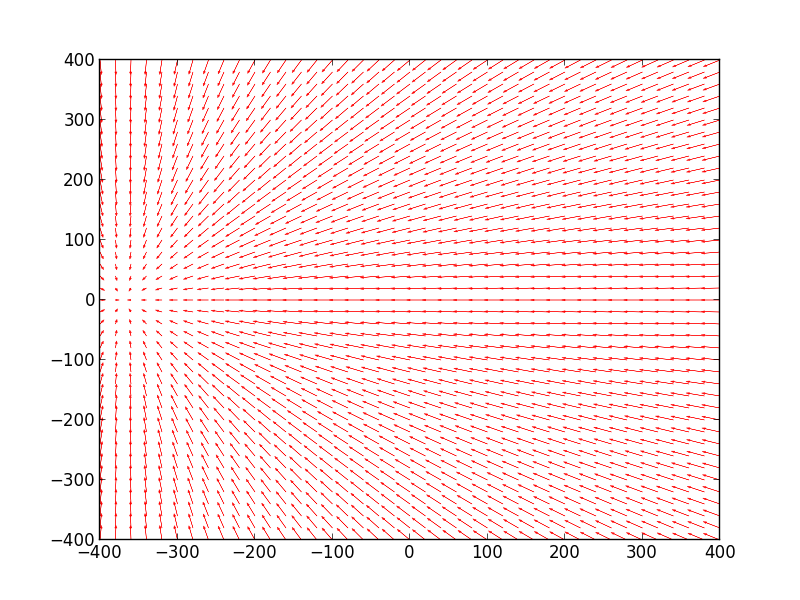
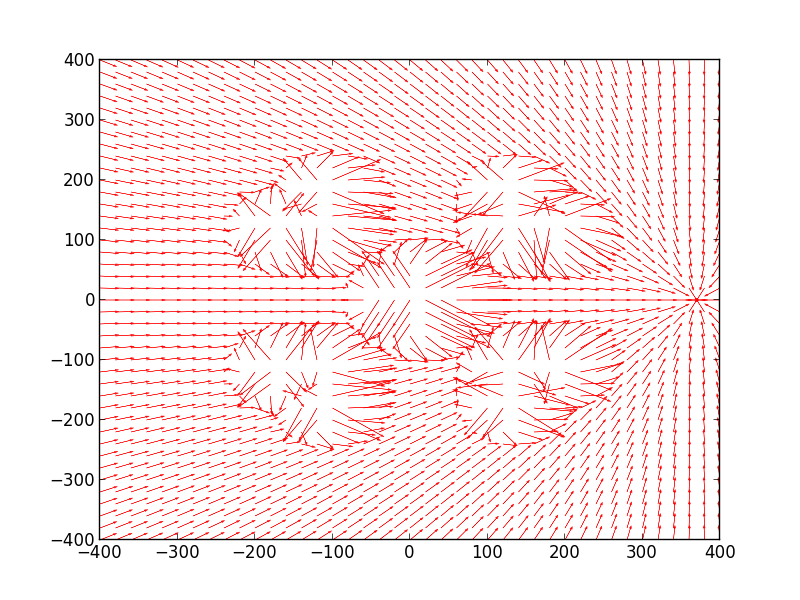
combined potential and attractive fields

Changed region(s): [[0.125, 0.09, 0.9062, 0.9]]

diff --git a/bzagents/agentPotFields.py b/bzagents/agentPotFields.py
@@ -23,6 +23,7 @@
 import sys
 import math
 import time
+import random
 
 import show_field
 
@@ -38,8 +39,11 @@ class Agent(object):
 		self.constants = self.bzrc.get_constants()
 		self.commands = []
 		self.shown_graph = False
+		self.no_flag_pot_field = []
+		self.have_flag_pot_field = []
 
 	def tick(self, time_diff):
+		print 'tick'
 		"""Some time has passed; decide what to do next."""
 		mytanks, othertanks, flags, shots = self.bzrc.get_lots_o_stuff()
 		self.mytanks = mytanks
@@ -51,12 +55,17 @@ class Agent(object):
 
 		self.commands = []		
 
-		potField = self.build_pot_field()
+		self.build_pot_field()
 		
 		for tank in mytanks:
-			#tank = mytanks[0]
-			vector = potField[self.get_world_size() / 2 + int(tank.x)][self.get_world_size() / 2 + int(tank.y)]
-			self.align_to_pot_vector(tank, vector)
+			if tank.status == "alive":
+				potField = 0
+				if tank.flag != "-":
+					potField = self.have_flag_pot_field
+				else:
+					potField = self.no_flag_pot_field
+				vector = potField[self.get_world_size() / 2 + int(tank.x)][self.get_world_size() / 2 + int(tank.y)]
+				self.align_to_pot_vector(tank, vector)
 
 		results = self.bzrc.do_commands(self.commands)
 
@@ -70,7 +79,7 @@ class Agent(object):
 		if vector_mag == 0:
 			angle_diff = 0
 		
-		command = Command(tank.index, vector_mag, angle_diff, False)
+		command = Command(tank.index, vector_mag, angle_diff, True)
 		
 		
 		# Append the command
@@ -84,20 +93,48 @@ class Agent(object):
 		elif angle > math.pi:
 			angle -= 2 * math.pi
 		return angle / math.pi
+		
+	def combine_fields(self, field1, field2, weight1, weight2):
+		field = []
+		for c in range(len(field1)):
+			col = []			
+			for r in range(len(field1[c])):
+				col.append(field1[c][r] * weight1 + field2[c][r] * weight2)
+			field.append(col)
+		return field
+		
+	def combine_all_fields(self, fields, weights):
+		scaled_weights = self.normalize_weights(weights)
+		result = self.scale_field(fields[0], scaled_weights[0])
+		for w, field in enumerate(fields[1:]):
+			result = self.combine_fields(result, field, 1, scaled_weights[w])
+		return result
+	
+	def scale_field(self, field, scale):
+		result = []
+		for c in range(len(field)):
+			col = []			
+			for r in range(len(field[c])):
+				col.append(field[c][r] * scale)
+			result.append(col)
+		return result
+	
+	def normalize_weights(self, weights):
+		s_weights = sorted(weights)
+		max_weight = weights[-1]
+		result = []
+		for weight in weights:
+			result.append(weight / max_weight)
+		return result
 	
 	def build_pot_field(self):
-		# field = [[PotVector(0,0) for j in range(self.get_world_size())] for i in range(self.get_world_size())]
+		if(len(self.no_flag_pot_field) == 0):
+			self.no_flag_pot_field = self.build_no_flag_pot_field()
+			self.have_flag_pot_field = self.build_have_flag_pot_field()
+			
+		field = self.no_flag_pot_field
 		
-		test_flag = 0
-		for i in self.flags:
-			if i.color == 'red':
-				test_flag = i
-		
-		# field = self.build_repulsive_field(test_flag.x + 400, test_flag.y + 400, 50, 100)
-		
-		field = self.build_attractive_field(test_flag.x + 400, test_flag.y + 400, 5, 200)
-		
-		# TODO: Set up potential field by adding fields generated by objects in the environment
+		#If there are any dynamic potential fields, add them in here
 		
 		if(not self.shown_graph):
 			global field_to_render
@@ -106,6 +143,62 @@ class Agent(object):
 			self.shown_graph = True
 		
 		return field
+		
+	def build_no_flag_pot_field(self):
+		enemy_flag = self.flags[random.randrange(0, len(self.flags))]
+		while enemy_flag.color == self.constants['team']:
+			enemy_flag = self.flags[random.randrange(0, len(self.flags))]
+		
+		enemy_flag_field = self.build_attractive_field(enemy_flag.x + 400, enemy_flag.y + 400, 1, 5)
+		obstacle_field = self.build_obstacle_field()
+		return self.combine_fields(enemy_flag_field, obstacle_field, 1, 2)
+		
+		#field = [[PotVector(0,0) for j in range(self.get_world_size())] for i in range(self.get_world_size())]
+		#rep_field = self.build_repulsive_field(blue_flag.x + 400, blue_flag.y + 400, 50, 50)
+		#field = self.combine_fields(rep_field, attr_field)		
+		
+		
+	def build_have_flag_pot_field(self):
+		# Build an attractive field on our base
+		bases = self.bzrc.get_bases()
+		my_base = 0
+		for base in bases:
+			if base.color == self.constants['team']:
+				my_base = base
+				break
+				
+		base_center_x = ((my_base.corner1_x + my_base.corner3_x) / 2) + 400
+		base_center_y = ((my_base.corner1_y + my_base.corner3_y ) / 2) + 400
+		base_radius = abs(my_base.corner1_x - my_base.corner3_x) / 2
+		
+		base_field =  self.build_attractive_field(base_center_x, base_center_y, base_radius, 10)
+		obstacle_field = self.build_obstacle_field()
+		return self.combine_fields(base_field, obstacle_field, 1, 2)
+		
+	def build_obstacle_field(self):
+		obstacles = self.bzrc.get_obstacles()
+		
+		obs_fields = []
+		weights = []
+		
+		for obs in obstacles:
+			sorted_x = sorted(obs, key=lambda point: point[0])
+			sorted_y = sorted(obs, key=lambda point: point[1])
+			x_min = sorted_x[0][0]
+			x_max = sorted_x[-1][0]
+			y_min = sorted_y[0][1]
+			y_max = sorted_y[-1][1]
+			center_x = (x_min + x_max) / 2 + 400
+			center_y = (y_min + y_max) / 2 + 400
+			radius = max(x_max - x_min, y_max - y_min) / 2
+			obs_field = self.build_repulsive_field(center_x, center_y, radius, 50)
+			obs_fields.append(obs_field);
+			weights.append(1)
+			
+		result = self.combine_all_fields(obs_fields, weights)
+		
+		return result
+				
 		
 	def build_attractive_field(self, center_x, center_y, r, s):
 		result = []
@@ -158,7 +251,16 @@ class PotVector(object):
 	def __init__(self, x, y):
 		self.x = x
 		self.y = y
+	
+	"""OPERATOR OVERLOADING OF THE OPERATOR FOR THE POTVECTOR CLASS"""
+	def __add__(self, other):
+		return PotVector(self.x + other.x,self.y + other.y)
 
+	def __mul__(self, other):
+		return PotVector(other * self.x, other * self.y)
+		
+	def __rmul__(self, other):
+		return PotVector(other * self.x, other * self.y)
 
 
 def render_field(x, y, res):
